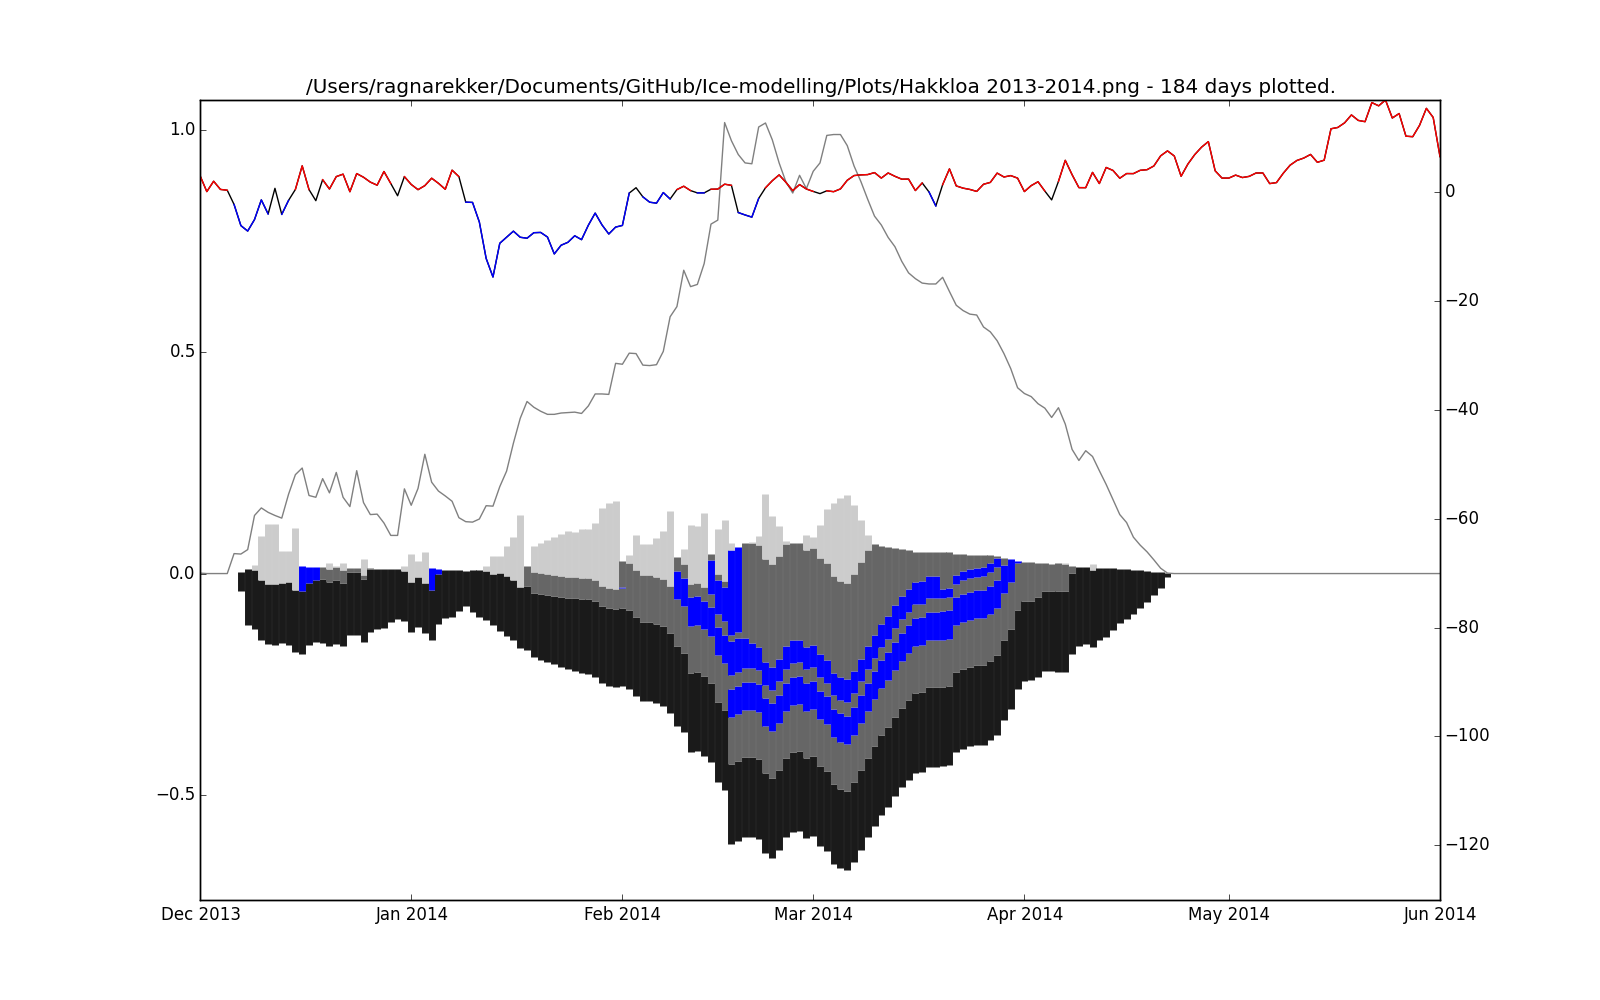
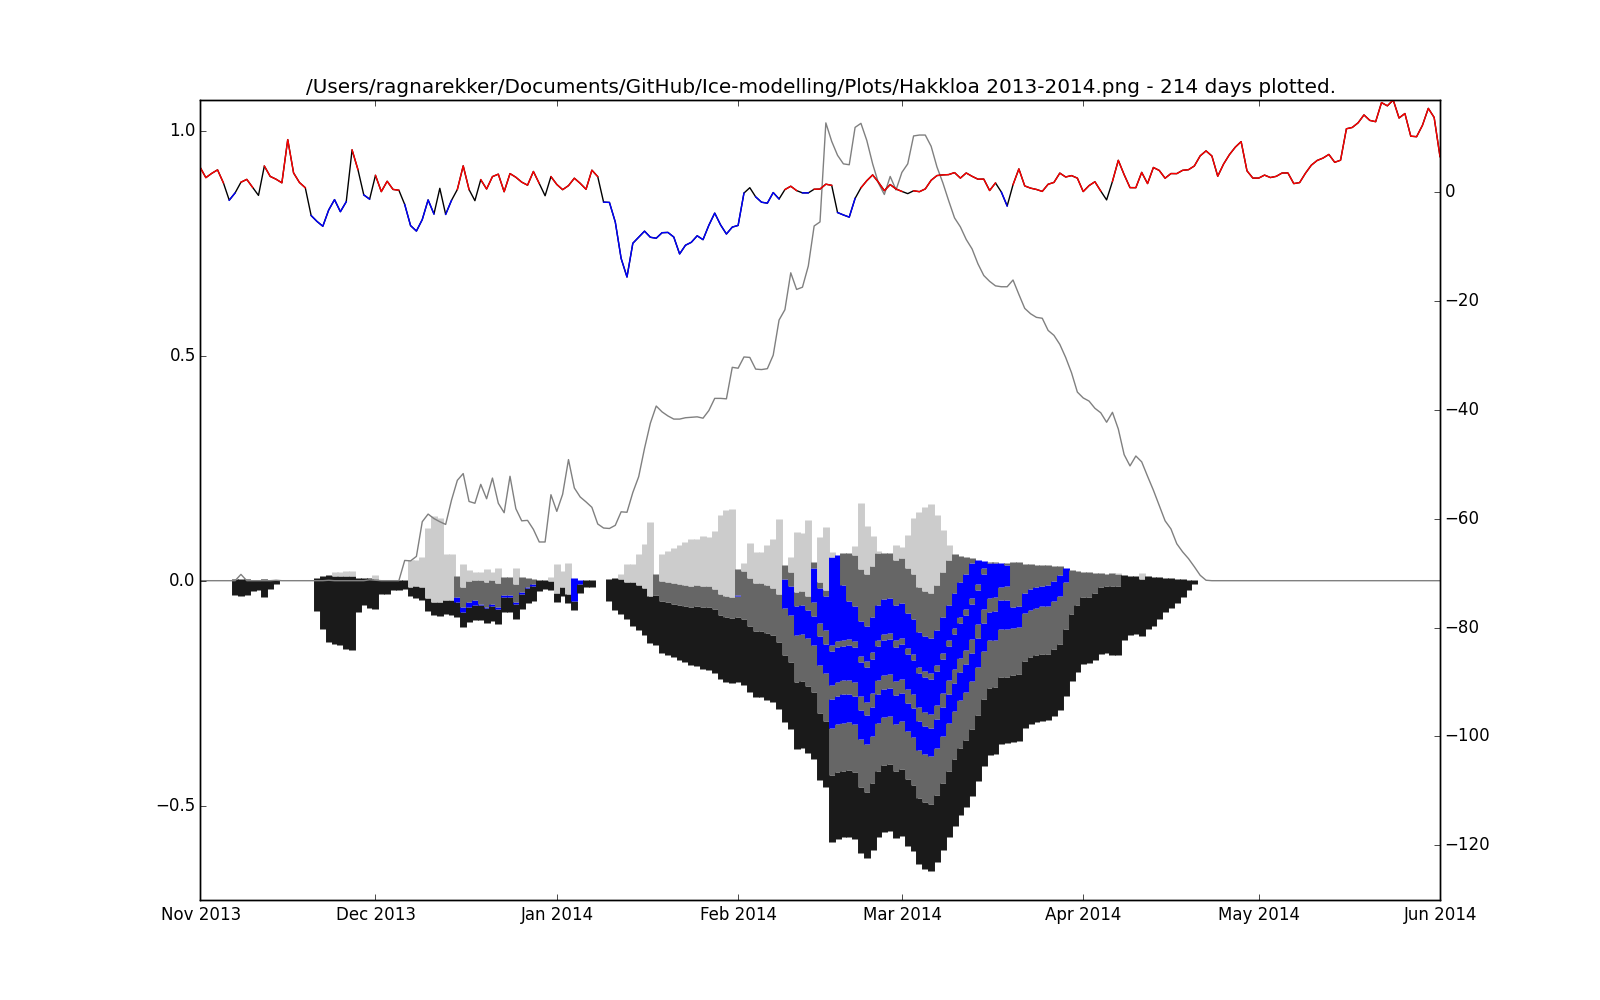
startet get regobs data

diff --git a/TimeseriesIO/getRegObsdata.py b/TimeseriesIO/getRegObsdata.py
@@ -173,6 +173,7 @@ def getIceThickness():
     url = "http://api.nve.no/hydrology/regobs/{0}/Odata.svc/{2}?$filter={1}&$format=json".decode('utf8').format(apiVersion, oDataQuery, view)
     data = requests.get(url).json()
     datalist = data['d']['results']
+
     a = 1
 
 

diff --git a/TimeseriesIO/IceColumn.py b/TimeseriesIO/IceColumn.py
@@ -3,6 +3,7 @@ __author__ = 'ragnarekker'
 
 # http://learntofish.wordpress.com/2011/12/06/tutorial-object-oriented-programming-in-python-part-2/
 # http://www.python-course.eu/object_oriented_programming.php
+#
 
 import math
 import datetime

diff --git a/runIceThicknessCalc.py b/runIceThicknessCalc.py
@@ -150,7 +150,7 @@ if __name__ == "__main__":
     #runOrovannMET('2011-11-15', '2012-06-20')
     #runOrovannMET('2012-11-15', '2013-06-20')
 
-    runHakkloa('2013-12-01', '2014-06-01')
+    runHakkloa('2013-11-01', '2014-06-01')
 
 
 
